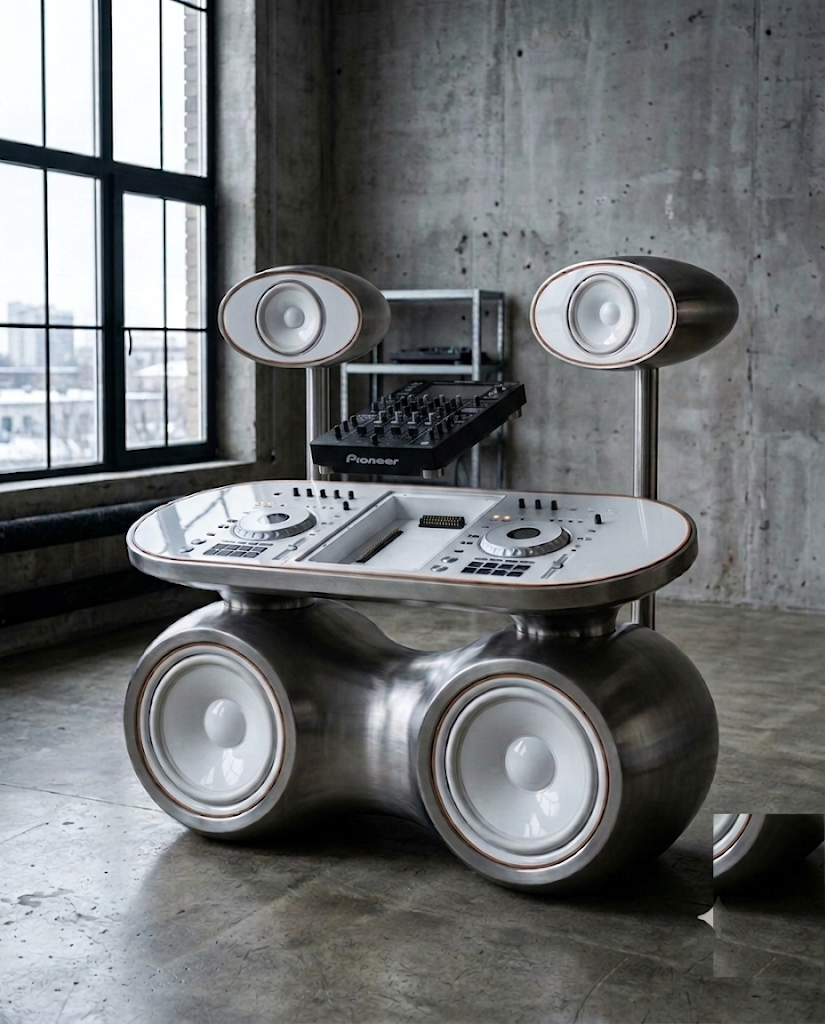
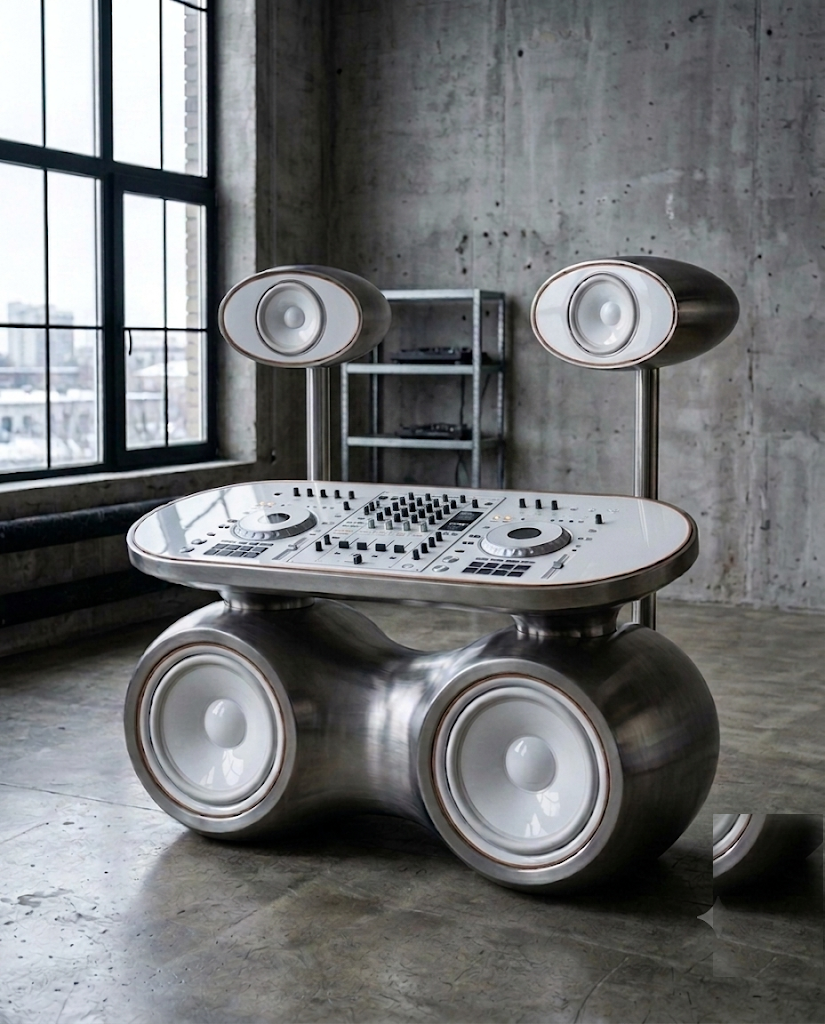
MIRAGE: new sharp hero with modules seated inside + fresh close-ups (deck module + mixer)

diff --git a/producto.html b/producto.html
@@ -164,7 +164,7 @@ main{max-width:1200px;margin:0 auto;padding:0 clamp(20px,4vw,48px) 120px}
                   ...(o.shots || []).map(s => [s[0], s[1], s[2] || false]) ];
   if (shots.length === 0) hideReal();
   document.getElementById('pv-gal').innerHTML = shots.map(s =>
-    '<figure class="shot' + (s[2] ? ' shot--wide' : '') + '"><img src="' + s[0] + '?v=close3" alt="' + o.nombre + '"><figcaption>' + s[1] + '</figcaption></figure>'
+    '<figure class="shot' + (s[2] ? ' shot--wide' : '') + '"><img src="' + s[0] + '?v=close4" alt="' + o.nombre + '"><figcaption>' + s[1] + '</figcaption></figure>'
   ).join('');
   document.querySelectorAll('#pv-gal img').forEach(img => {
     img.onerror = () => { img.closest('figure').remove(); if (!document.querySelector('#pv-gal figure')) hideReal(); };